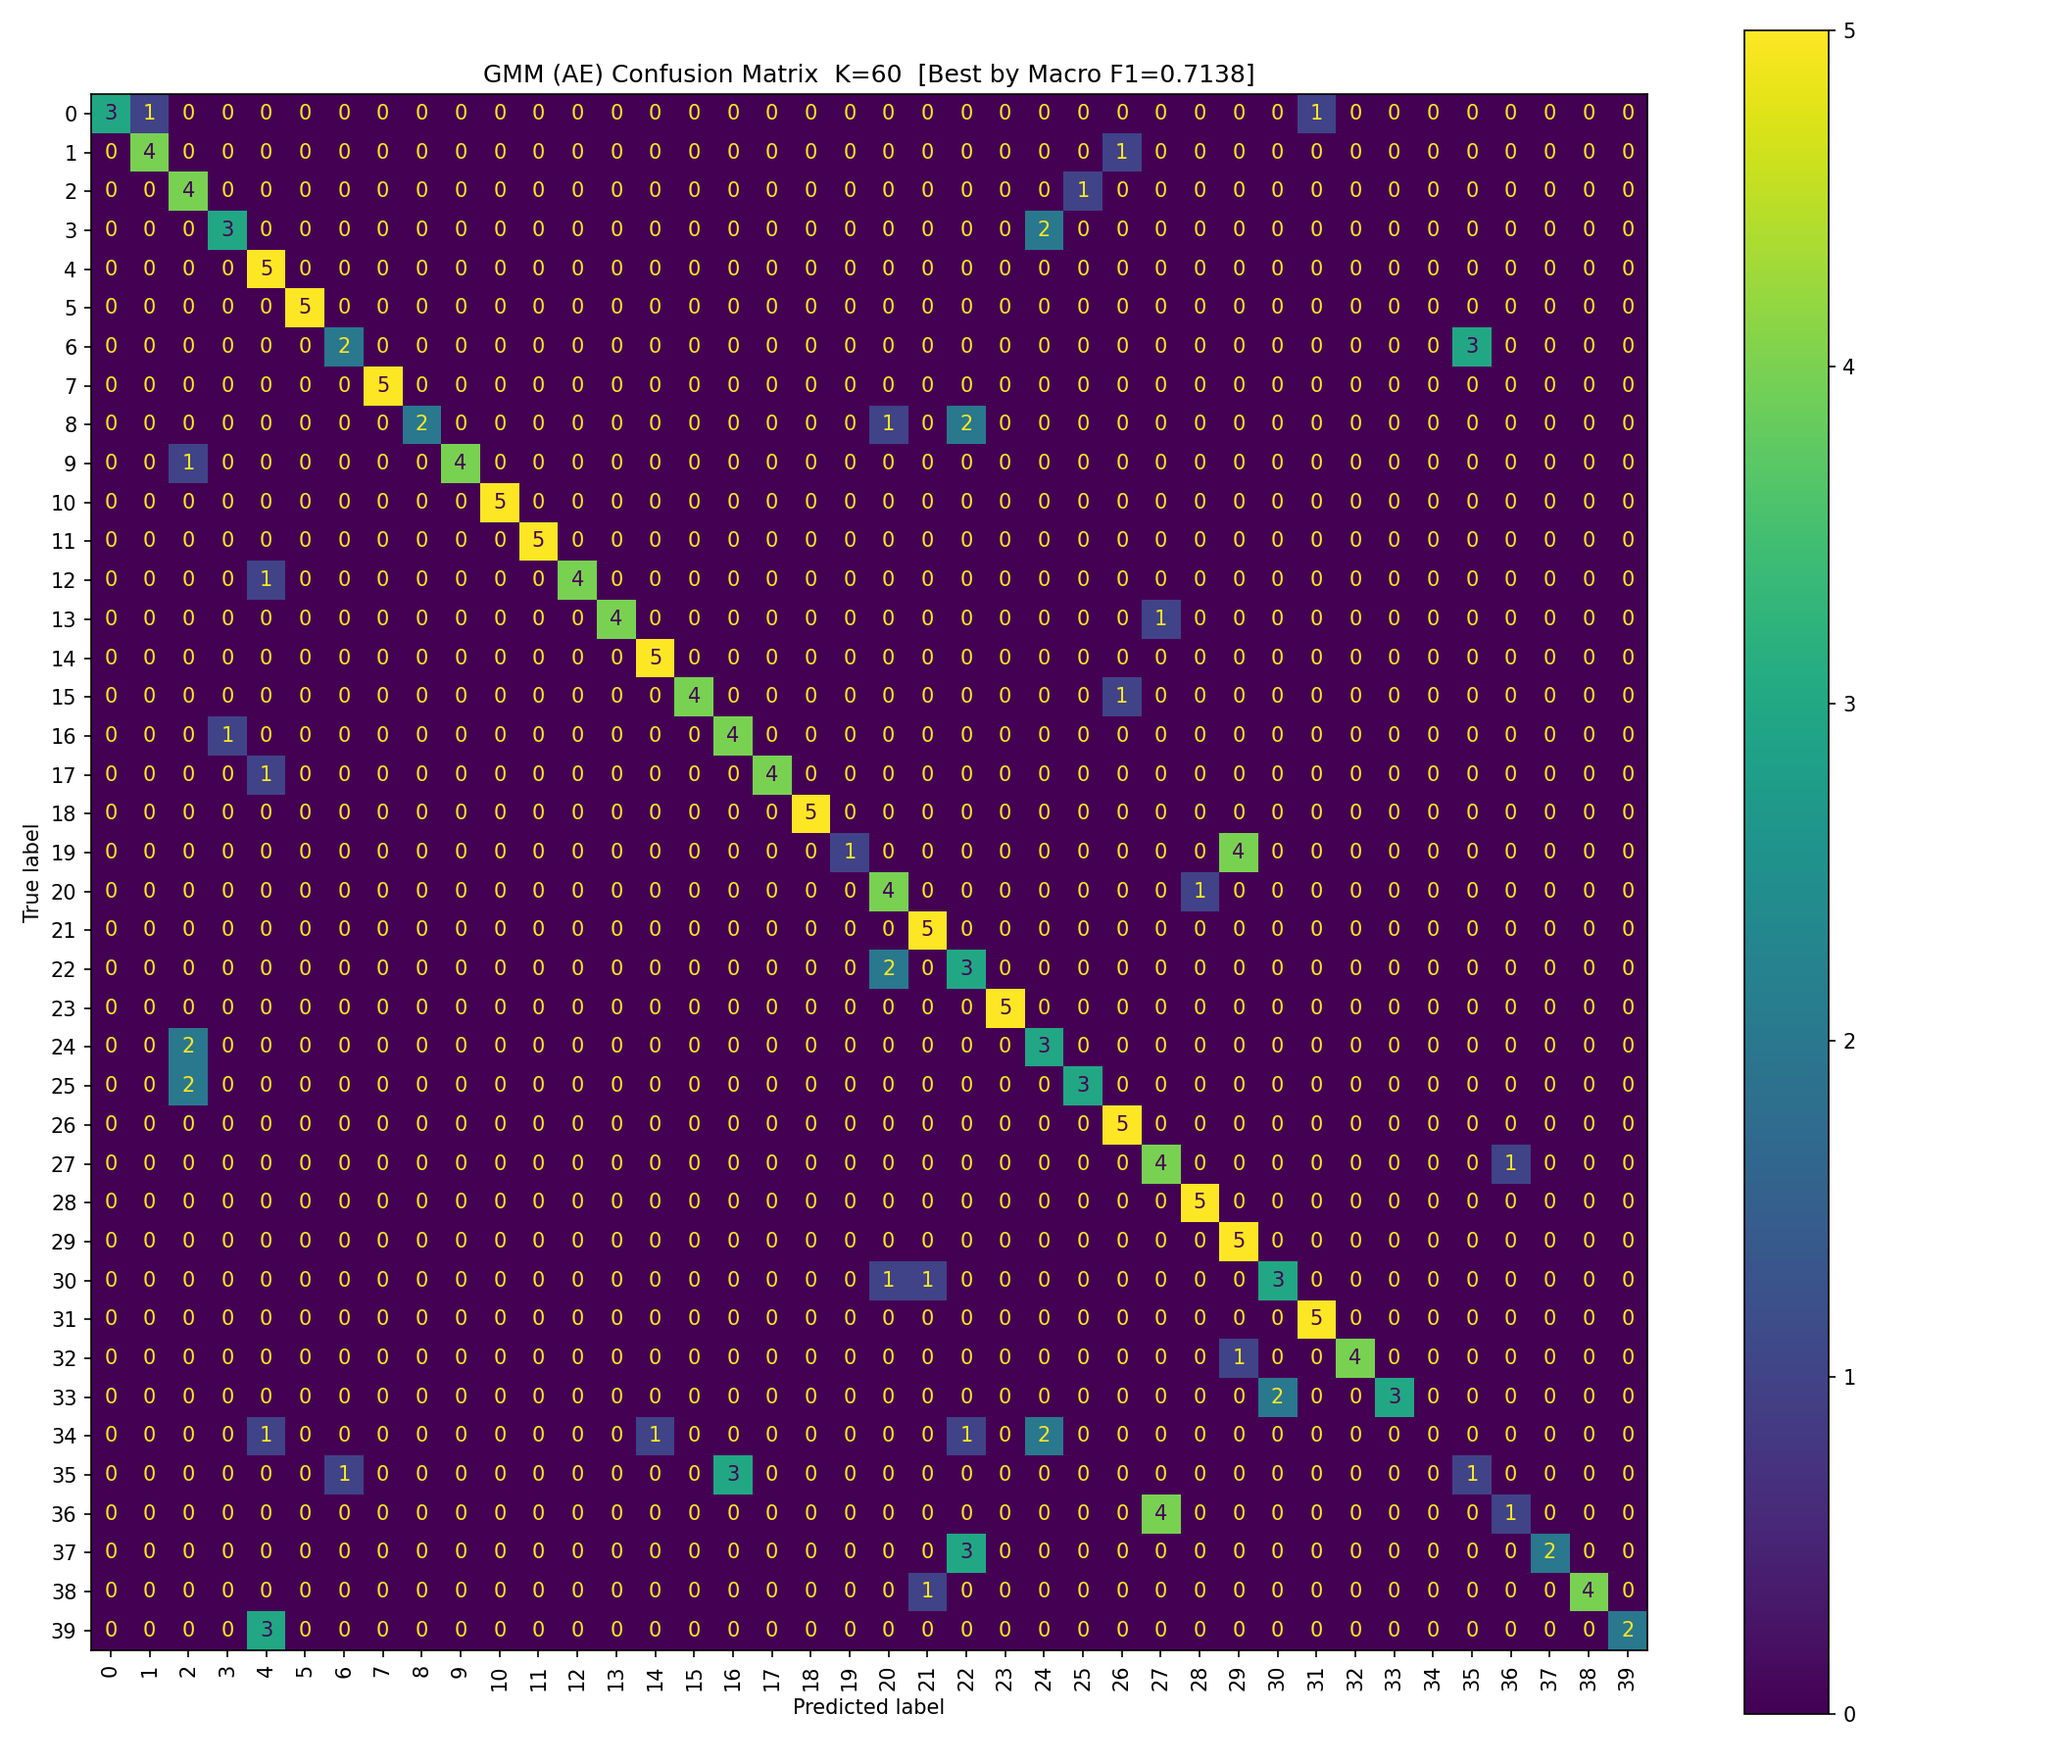
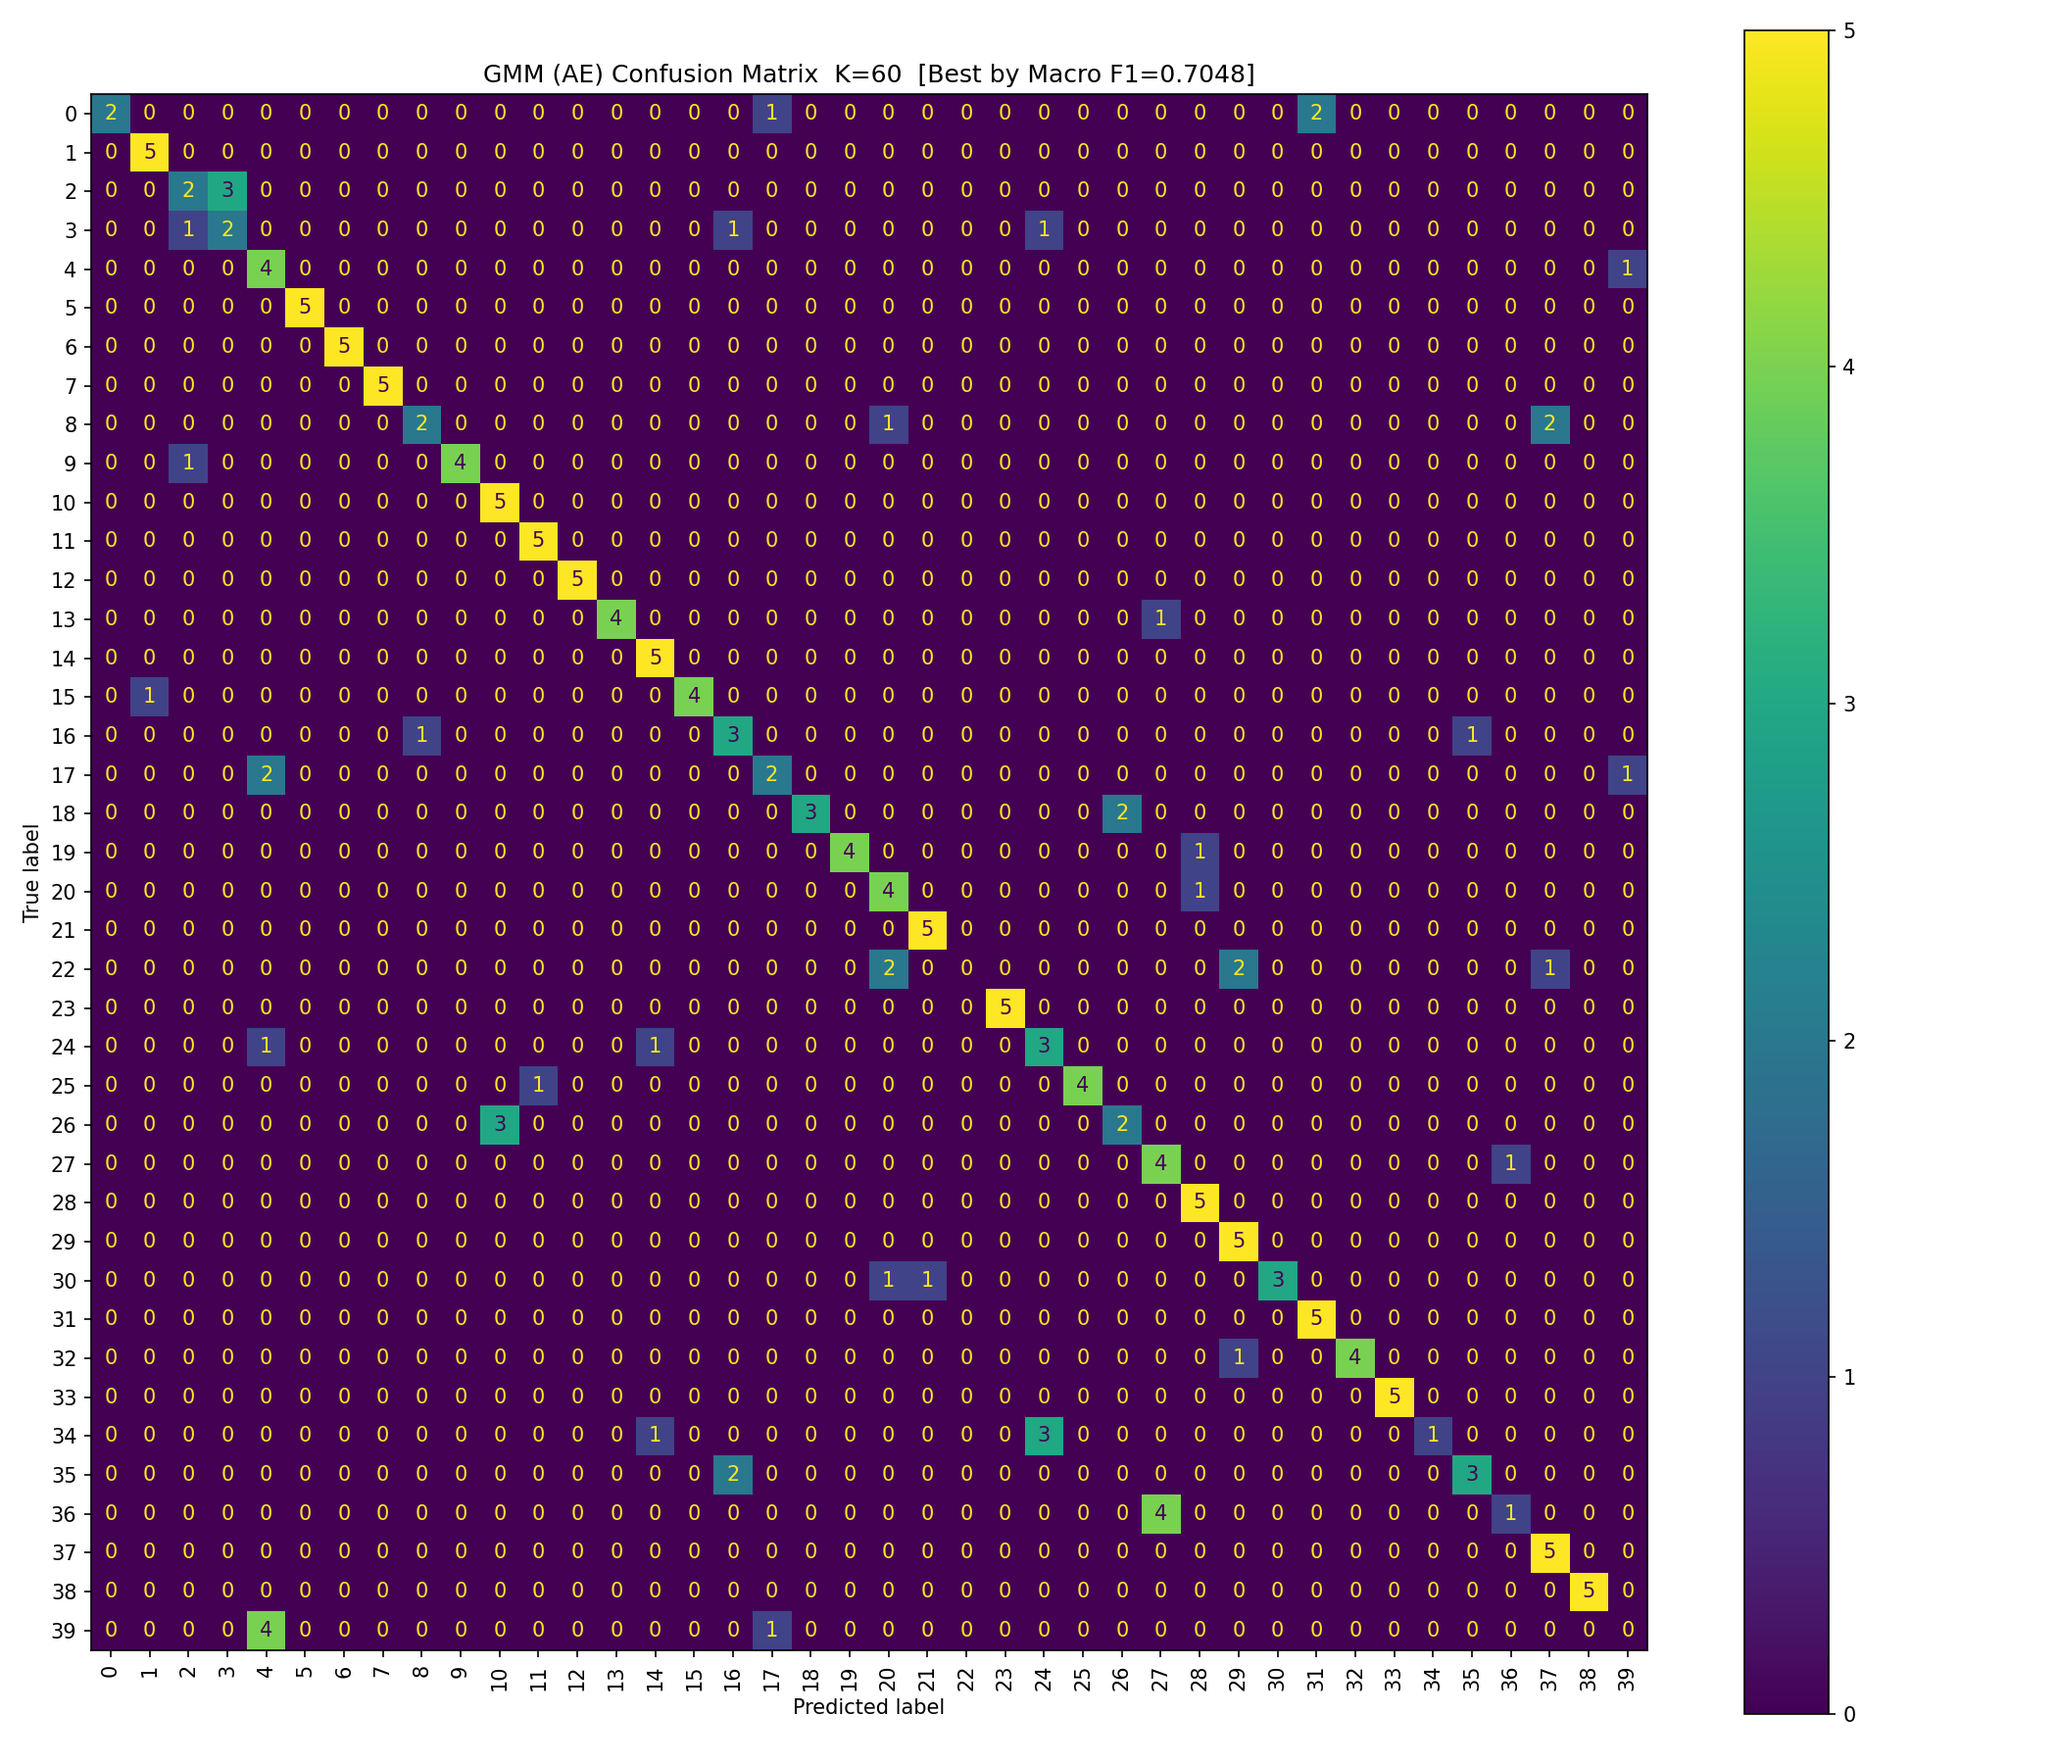
Change autoencoder archietecture

diff --git a/Face_Recognition/Autoencoder/tester.py b/Face_Recognition/Autoencoder/tester.py
@@ -50,11 +50,11 @@ def run_experiment():
 
     # ── 1. Train Autoencoder ──────────────────────────────────────────────
     print("\n==================== AUTOENCODER TRAINING ====================\n")
-    print(f"Architecture: {input_dim} → 1024 → 256 → 1024 → {input_dim}")
+    print(f"Architecture: {input_dim} → 512 → 256 → 512 → {input_dim}")
     print(f"Loss: MSE  ||x - x̃||²")
 
-    ae = DeepAutoencoder(input_dim=input_dim, hidden1=1024, bottleneck=256)
-    ae, losses = DeepAutoencoder.train_autoencoder(ae, X_train_tensor, epochs=100, lr=1e-3, batch_size=32)
+    ae = DeepAutoencoder(input_dim=input_dim, hidden1=512, bottleneck=256)
+    ae, losses = DeepAutoencoder.train_autoencoder(ae, X_train_tensor, epochs=200, lr=1e-3, batch_size=32)
 
     # Training loss curve
     plt.figure(figsize=(7, 4))
